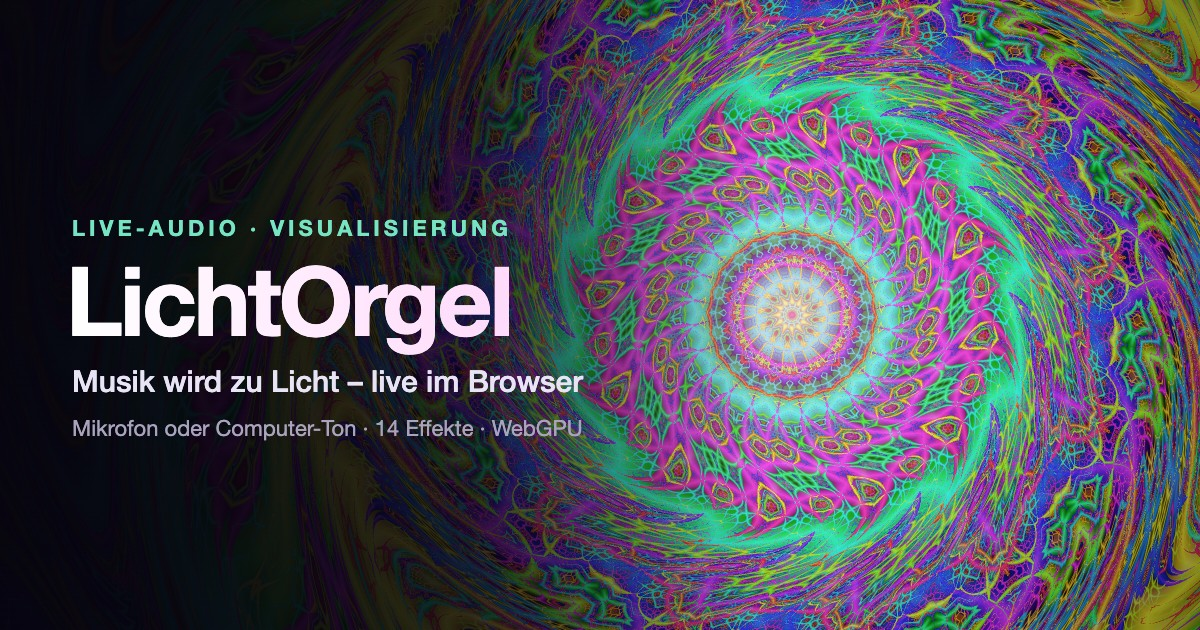
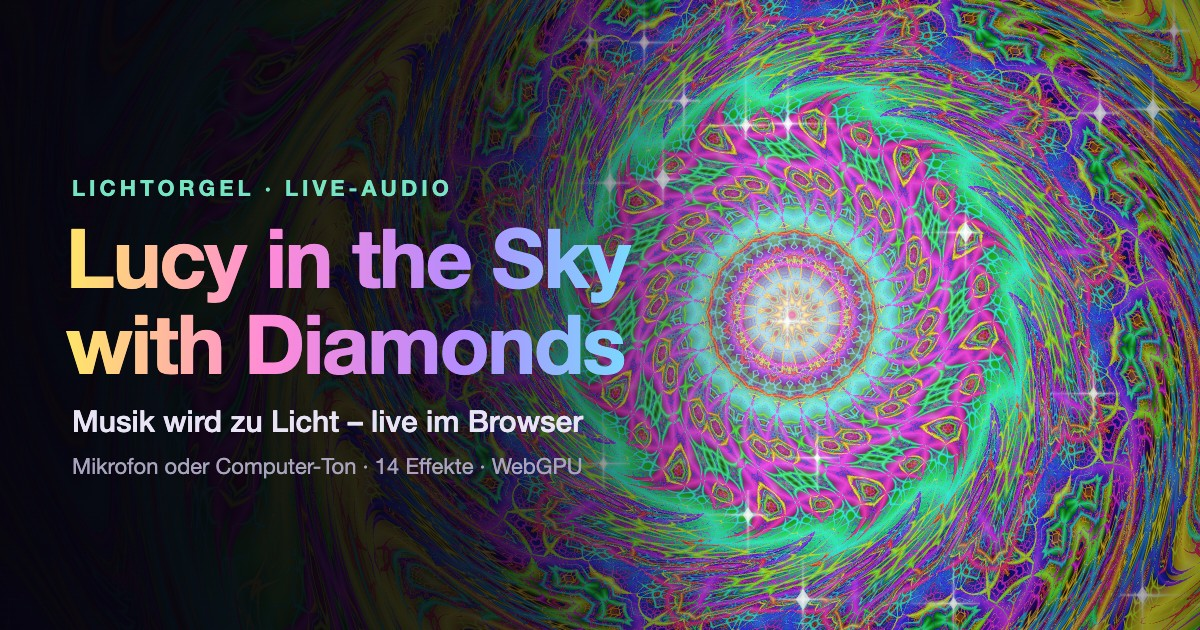
Vorschaubild: „Lucy in the Sky with Diamonds“
Neuer Titel mit Regenbogenverlauf und funkelnde Diamanten im Mandala;
Alternativtexte in Meta-Tags und README angepasst.

diff --git a/index.html b/index.html
@@ -14,7 +14,7 @@
   <meta property="og:image" content="https://helmutqualtinger.github.io/LichtOrgel/og-image.jpg">
   <meta property="og:image:width" content="1200">
   <meta property="og:image:height" content="630">
-  <meta property="og:image:alt" content="Psychedelisches Regenbogen-Mandala neben dem Schriftzug LichtOrgel">
+  <meta property="og:image:alt" content="Psychedelisches Regenbogen-Mandala mit funkelnden Diamanten neben dem Schriftzug „Lucy in the Sky with Diamonds“">
   <meta name="twitter:card" content="summary_large_image">
   <meta name="twitter:title" content="LichtOrgel">
   <meta name="twitter:description" content="Musik wird zu Licht – live im Browser.">

diff --git a/README.md b/README.md
@@ -1,6 +1,6 @@
 # LichtOrgel
 
-![LichtOrgel – psychedelisches Regenbogen-Mandala neben dem Schriftzug](og-image.jpg)
+![LichtOrgel – psychedelisches Regenbogen-Mandala mit funkelnden Diamanten und dem Schriftzug „Lucy in the Sky with Diamonds“](og-image.jpg)
 
 Eine Lichtorgel im Browser: Audio von Mikrofon oder Computer wird in zehn Frequenzbänder zerlegt und in Echtzeit als Animation dargestellt. Die gesamte Anwendung ist eine einzelne Datei (`index.html`) ohne Abhängigkeiten und ohne Build-Schritt.
 
